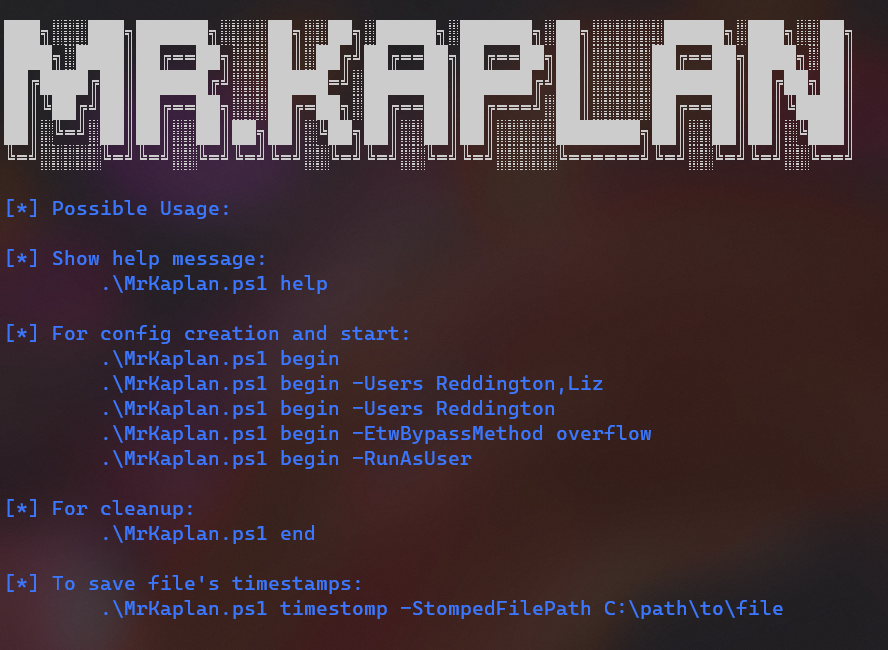
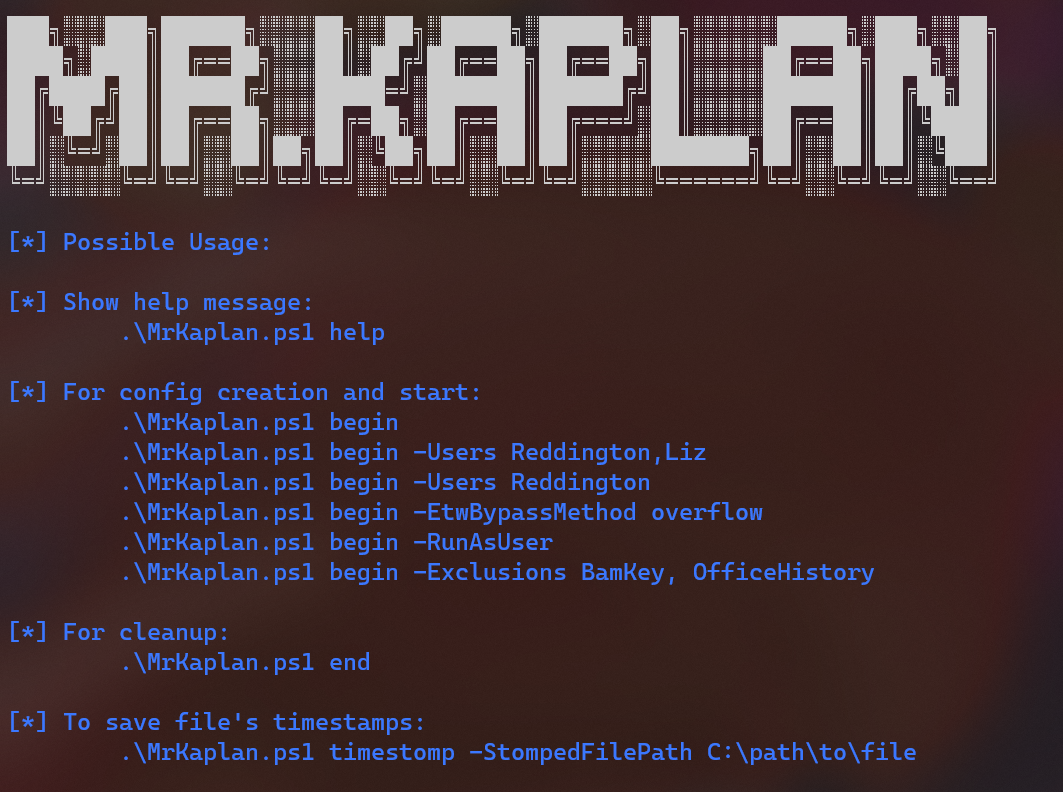
V1.0 Release

Changed region(s): [[0.0, 0.0, 0.973, 0.7385], [0.0, 0.8615, 0.8818, 1.0], [0.0, 0.7692, 0.3649, 0.8615]]

diff --git a/README.md b/README.md
@@ -16,6 +16,7 @@ You can read more about it in the [wiki](https://github.com/idov31/MrKaplan/wiki
 - Can run for multiple users.
 - Can run as user and as admin (Highly recommended to run as admin).
 - Can save timestamps of files.
+- Can exclude certian operations and leave artifacts to blue teams.
 
 ## Usage
 
